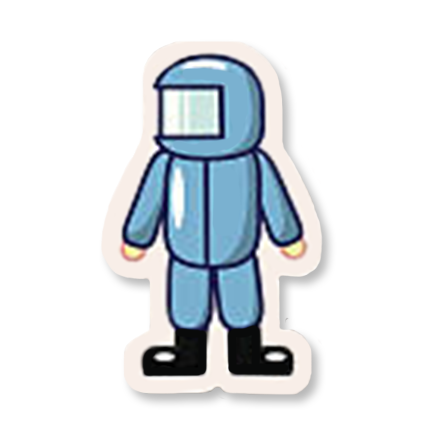
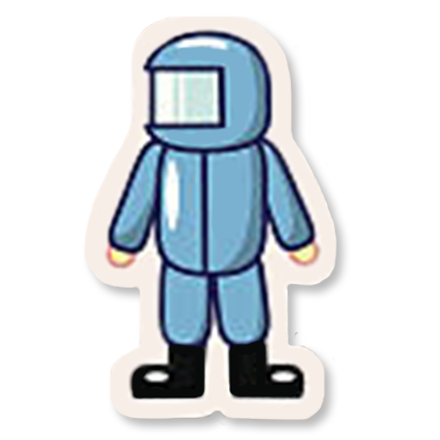
changed the img size of the memory game and added 2 new imgs

Changed region(s): [[0.2068, 0.0591, 0.7977, 0.975], [0.6205, 0.0886, 0.65, 0.1182]]

diff --git a/src/assets/styles/memory_game/board.scss b/src/assets/styles/memory_game/board.scss
@@ -11,13 +11,13 @@
     height: 640px;
     margin-bottom: 32px;
     background-color: $modal-bg;
-    padding: 24px;
+    padding: 24px 24px;
 }
 /* small screens */
     @media only screen and (max-width: 768px) {
         .board {
         grid-template-columns: repeat(3, 1fr);
         grid-template-rows: repeat(4, 1fr);
-        width: 300px;
+        width: 100%;
         height: 400px;
     }}

diff --git a/src/pages/MemoryGame.tsx b/src/pages/MemoryGame.tsx
@@ -23,8 +23,8 @@ function MemoryGame() {
 
   return (
     <div className="memory-game-container">
-        <div className=''>
-            <h1>Memory Game</h1>
+        <div>
+            <h1 className='game-title'>Memory Game</h1>
             <Score 
                 moves={moves} 
                 bestScore={bestScore}

diff --git a/src/pages/KidsZone.tsx b/src/pages/KidsZone.tsx
@@ -2,7 +2,7 @@ import {Outlet} from "react-router-dom"
 
 const KidsZone = () => {
   return (
-    <div className="kidsZone-container flex justify-center w-full m-11">
+    <div className="kidsZone-container flex justify-center w-full lg:my-16 sm:m-4">
      <Outlet/>
     </div>
   )

diff --git a/src/App.scss b/src/App.scss
@@ -1,4 +1,4 @@
-@import "./assets/styles/colour-library.css";
+@import "./assets/styles/share/colour-library.scss";
 
 .App {
   text-align: center;
@@ -40,7 +40,7 @@
 }
 
 h1, h2, span {
-  color: var(--primary-text)
+  color: $primary-text;
 }
 
 h1 {

diff --git a/src/App.tsx b/src/App.tsx
@@ -1,6 +1,4 @@
-import {useEffect, useState} from "react";
-
-import "./App.css";
+import "./App.scss";
 import "./assets/styles/share/modalStyle.scss";
 import "./assets/styles/share/button.scss";
 import { Routes, Route } from "react-router-dom";

diff --git a/src/components/MemoryGame/Board.tsx b/src/components/MemoryGame/Board.tsx
@@ -41,7 +41,7 @@ function Board(props: BoardProps) {
     // flip the cards back after 500ms duration
     timeout.current = setTimeout(() => {
       setOpenCards([]);
-    }, 500);
+    }, 600);
   }
 
   const handleCardClick = (id: number) => {

diff --git a/src/assets/styles/memory_game/singleCard.scss b/src/assets/styles/memory_game/singleCard.scss
@@ -12,8 +12,8 @@
  
 
     img {
-        width: 80%;
-        height: 80%;
+        width: 95%;
+        height: 95%;
         border-radius: 4px;
     }
 

diff --git a/src/assets/styles/memory_game/score.scss b/src/assets/styles/memory_game/score.scss
@@ -15,7 +15,7 @@
     @media screen and (max-width: 768px) {
         width: 300px;
         font-size: 16px;
-        margin: 10%;
+        
     }
 }
 

diff --git a/src/assets/styles/memory_game/memoryGame.scss b/src/assets/styles/memory_game/memoryGame.scss
@@ -12,4 +12,9 @@
     align-items: center;
     justify-content: center;
 
+    .game-title {
+        font-weight: 600;
+    }
+
 }
+
